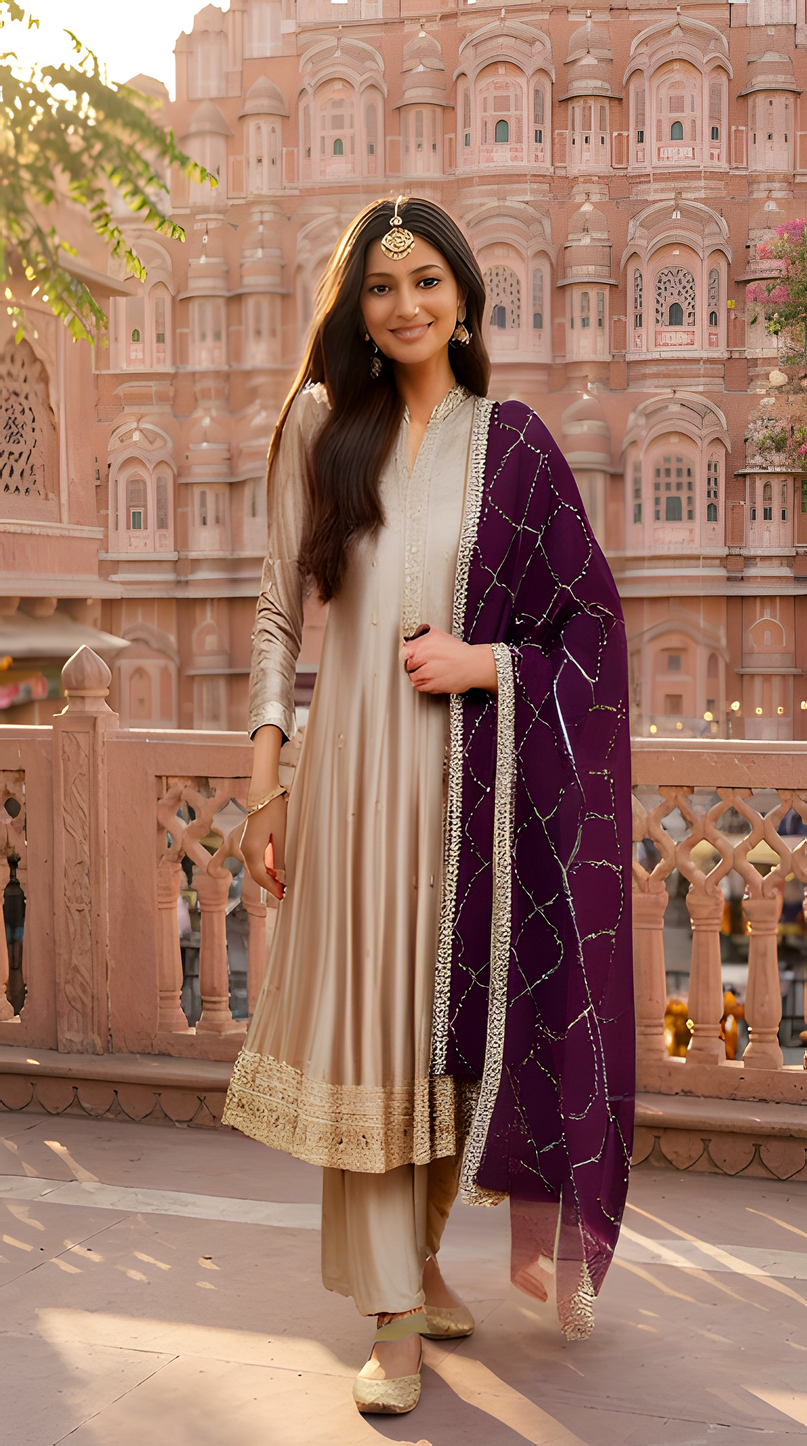
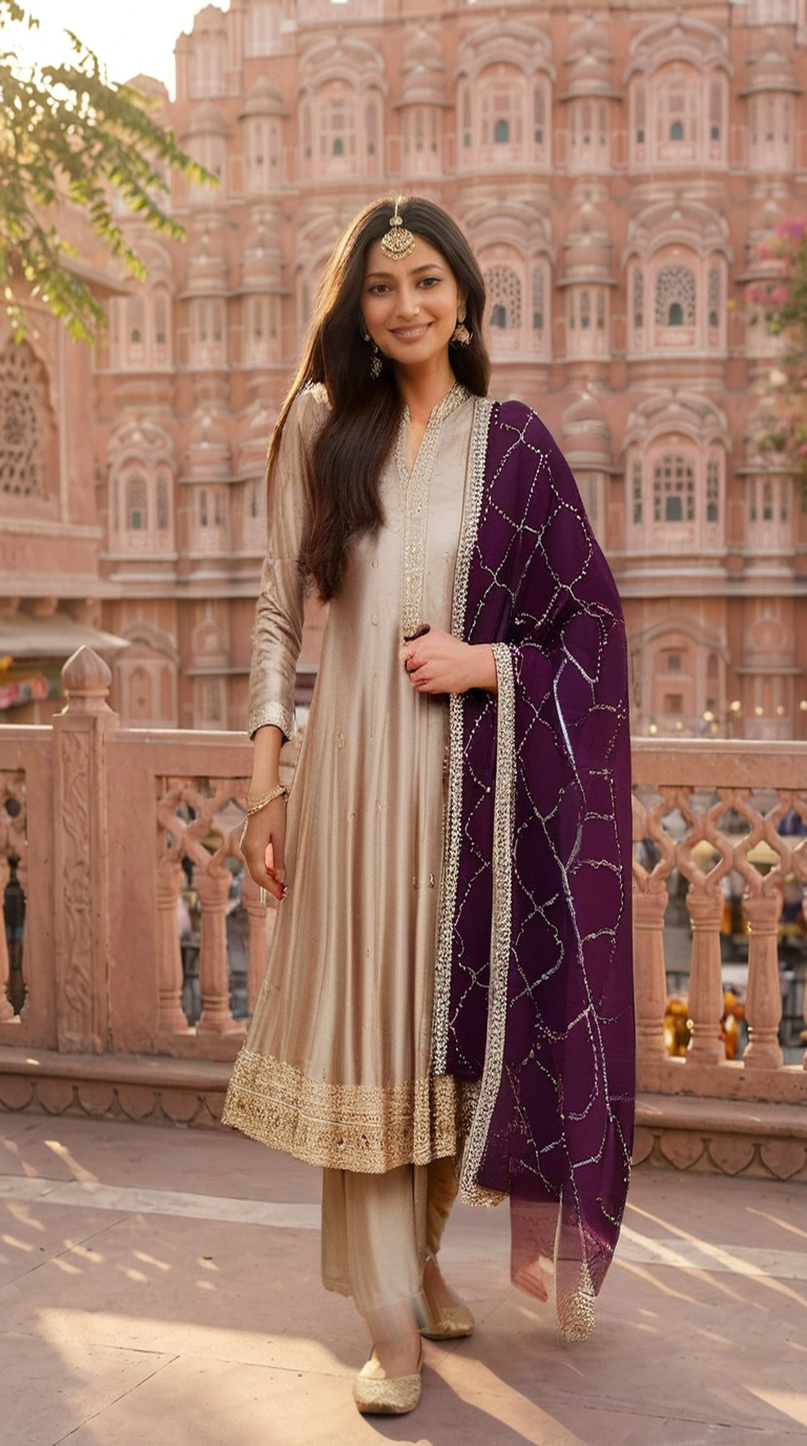
ai-image-gen v3: accurate rebuild (natural face, true height, faithful dress, fixed strap) + Qwen-Image-Edit-2509 generator installed

diff --git a/ai-image-gen/imagegen.py b/ai-image-gen/imagegen.py
@@ -1,0 +1,64 @@
+#!/usr/bin/env python3
+"""
+Top-ranked open-source image generator — Qwen-Image-Edit-2509 (the #1 ranked
+open-source image editing model; multi-image, identity- and product-preserving).
+Repo: https://github.com/QwenLM/Qwen-Image  ·  Model: Qwen/Qwen-Image-Edit-2509
+
+Runs the model through hosted inference (this machine has no GPU). A FREE
+Hugging Face token raises the GPU quota — create one at
+https://huggingface.co/settings/tokens and pass it via --hf-token or $HF_TOKEN.
+
+Usage:
+  python3 imagegen.py person.jpg dress.jpg "<instruction>" out.png [seed] [height] [width]
+
+Example (champagne dress swap):
+  python3 imagegen.py model_pink.png dress_champagne.jpg \
+    "Replace the outfit of the girl in the first image with the EXACT outfit shown in the second image..." \
+    out.png 42 1600 896
+"""
+import os, sys, shutil
+from gradio_client import Client, handle_file
+
+SPACE_2509 = "Qwen/Qwen-Image-Edit-2509"   # multi-image (person + product)
+SPACE_SINGLE = "Qwen/Qwen-Image-Edit"      # fallback, single image
+
+DRESS_PROMPT = (
+    "Replace the outfit of the girl in the first image with the EXACT outfit shown in the second image (a product photo of a dress). "
+    "The new outfit is: a champagne beige silk anarkali kurta with small scattered gold motifs all over, a heavy ornate gold embroidered double-band border on the hem, "
+    "gold embroidered cuffs on the sleeves, an embroidered neckline placket with gold work, matching champagne palazzo pants, "
+    "and a deep purple dupatta with gold diamond lattice dotted thread work and thick gold embroidered borders draped over her shoulder. "
+    "Reproduce the dress colors, fabric sheen, embroidery patterns and borders EXACTLY as in the second image. "
+    "Keep the girl's face, smile, hair, maang tikka, necklace, earrings, bangles, pose, hands, gold jutti shoes, and the Hawa Mahal background EXACTLY unchanged. "
+    "Do not change her face or the background or the pose at all."
+)
+
+
+def generate(person, garment, prompt, out, seed=42, height=1600, width=896):
+    token = os.environ.get("HF_TOKEN") or None
+    c = Client(SPACE_2509, hf_token=token, verbose=False)
+    res = c.predict(
+        [
+            {"image": handle_file(person), "caption": "the person"},
+            {"image": handle_file(garment), "caption": "the outfit to put on the person"},
+        ],
+        prompt, seed, False, 4.0, 40, float(height), float(width), False,
+        api_name="/infer",
+    )
+    gallery = res[0]
+    item = gallery[0]
+    p = item["image"]["path"] if isinstance(item, dict) and isinstance(item.get("image"), dict) else (item["image"] if isinstance(item, dict) else item)
+    shutil.copy(p, out)
+    return out
+
+
+if __name__ == "__main__":
+    if len(sys.argv) < 4:
+        print(__doc__); sys.exit(1)
+    person, garment = sys.argv[1], sys.argv[2]
+    prompt = sys.argv[3] if sys.argv[3] != "DRESS" else DRESS_PROMPT
+    out = sys.argv[4] if len(sys.argv) > 4 else "gen_out.png"
+    seed = int(sys.argv[5]) if len(sys.argv) > 5 else 42
+    h = int(sys.argv[6]) if len(sys.argv) > 6 else 1600
+    w = int(sys.argv[7]) if len(sys.argv) > 7 else 896
+    print(f"Qwen-Image-Edit-2509 | seed={seed} size={w}x{h}")
+    print("Saved:", generate(person, garment, prompt, out, seed, h, w))

diff --git a/ai-image-gen/README.md b/ai-image-gen/README.md
@@ -38,3 +38,5 @@ Direct download links use the Pages base:
 `https://earning-cpu.github.io/nightingale-films/ai-image-gen/<filename>`
 
 **v2 update:** restored the model's true height (the try-on engine compresses output to 3:4 — pipeline now un-squashes to the source framing), repaired the shoe-strap artifact, and ran a Real-ESRGAN ×4plus detail-enhancement pass (onnx weights, SHA-verified).
+
+**v3 update:** removed the Real-ESRGAN pass (it hallucinated different embroidery and over-processed the face). The image is now rebuilt from the pristine generation: true height, natural face, faithful dress details, repaired shoe strap. Installed `imagegen.py` — the #1 ranked open-source image editor **Qwen-Image-Edit-2509** (multi-image person+product swap) — set `HF_TOKEN` (free at huggingface.co/settings/tokens) to run unlimited swaps with high quota.
